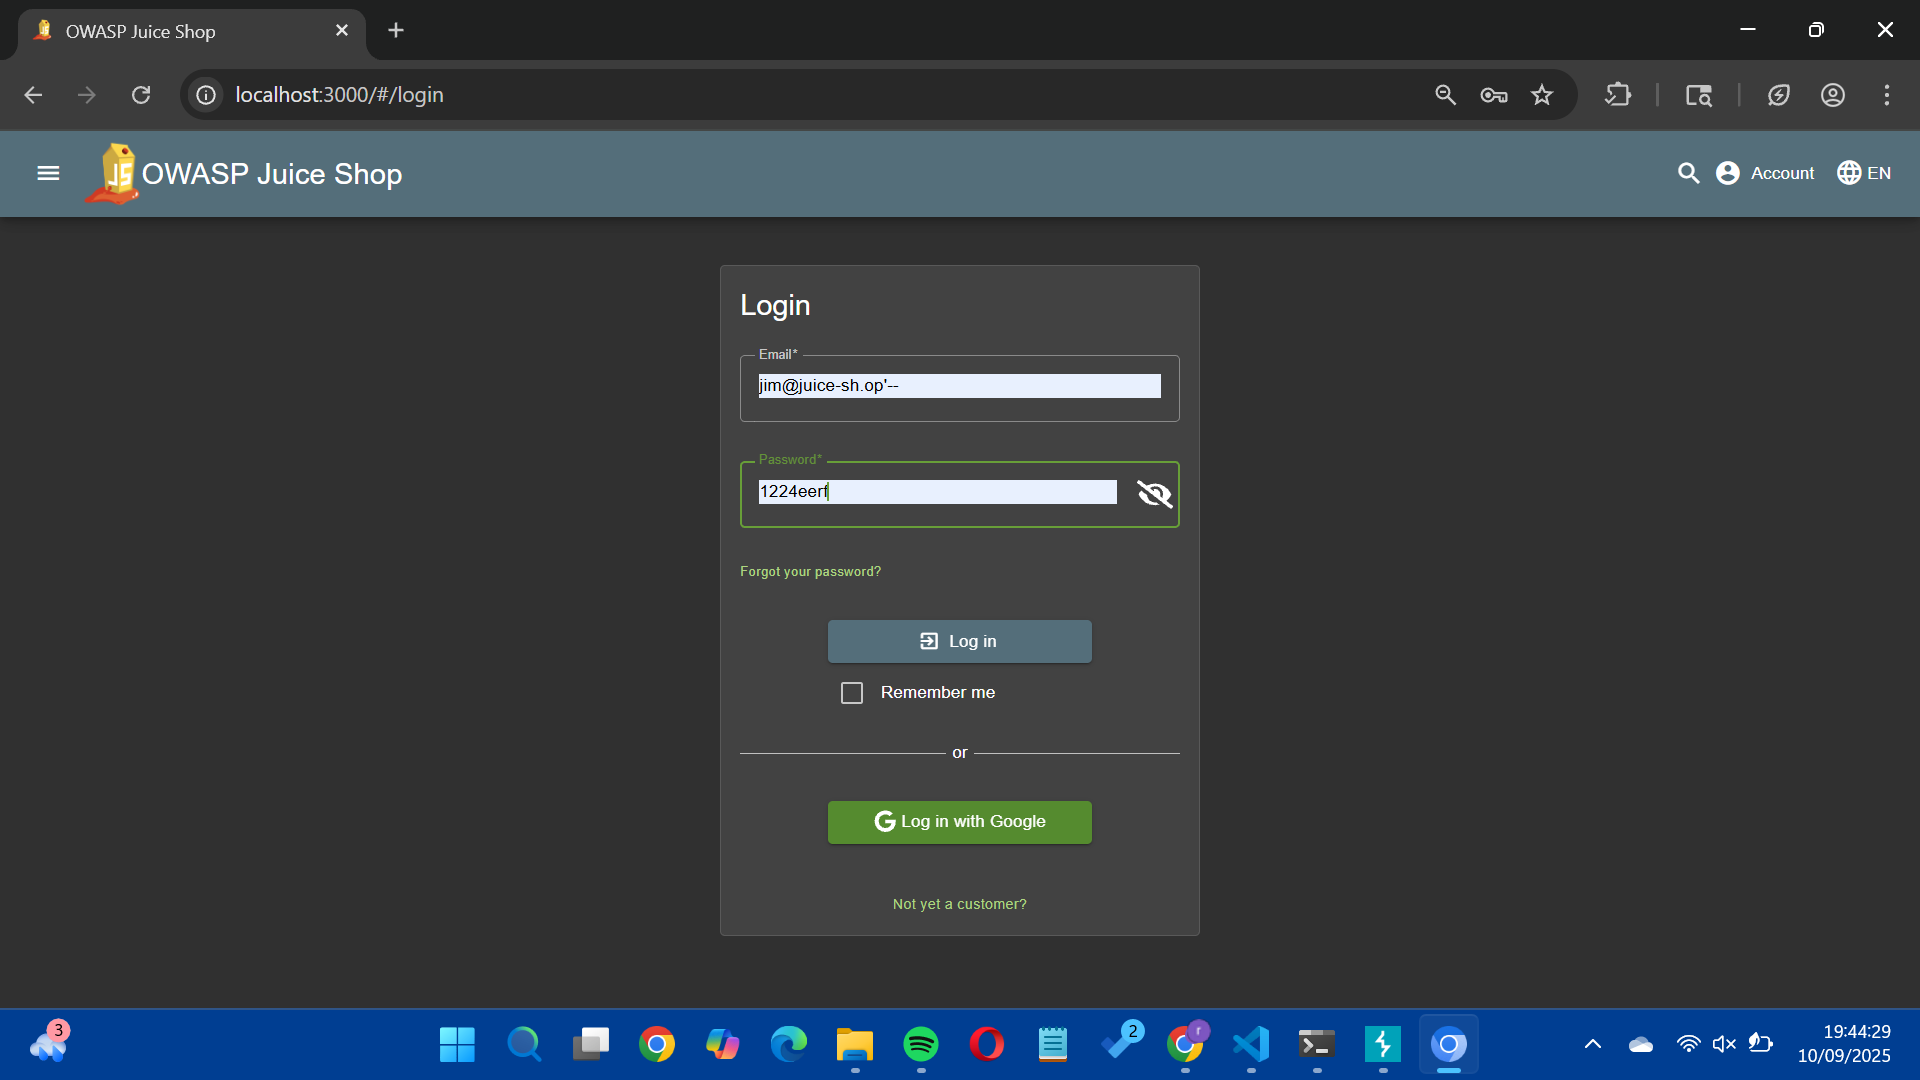
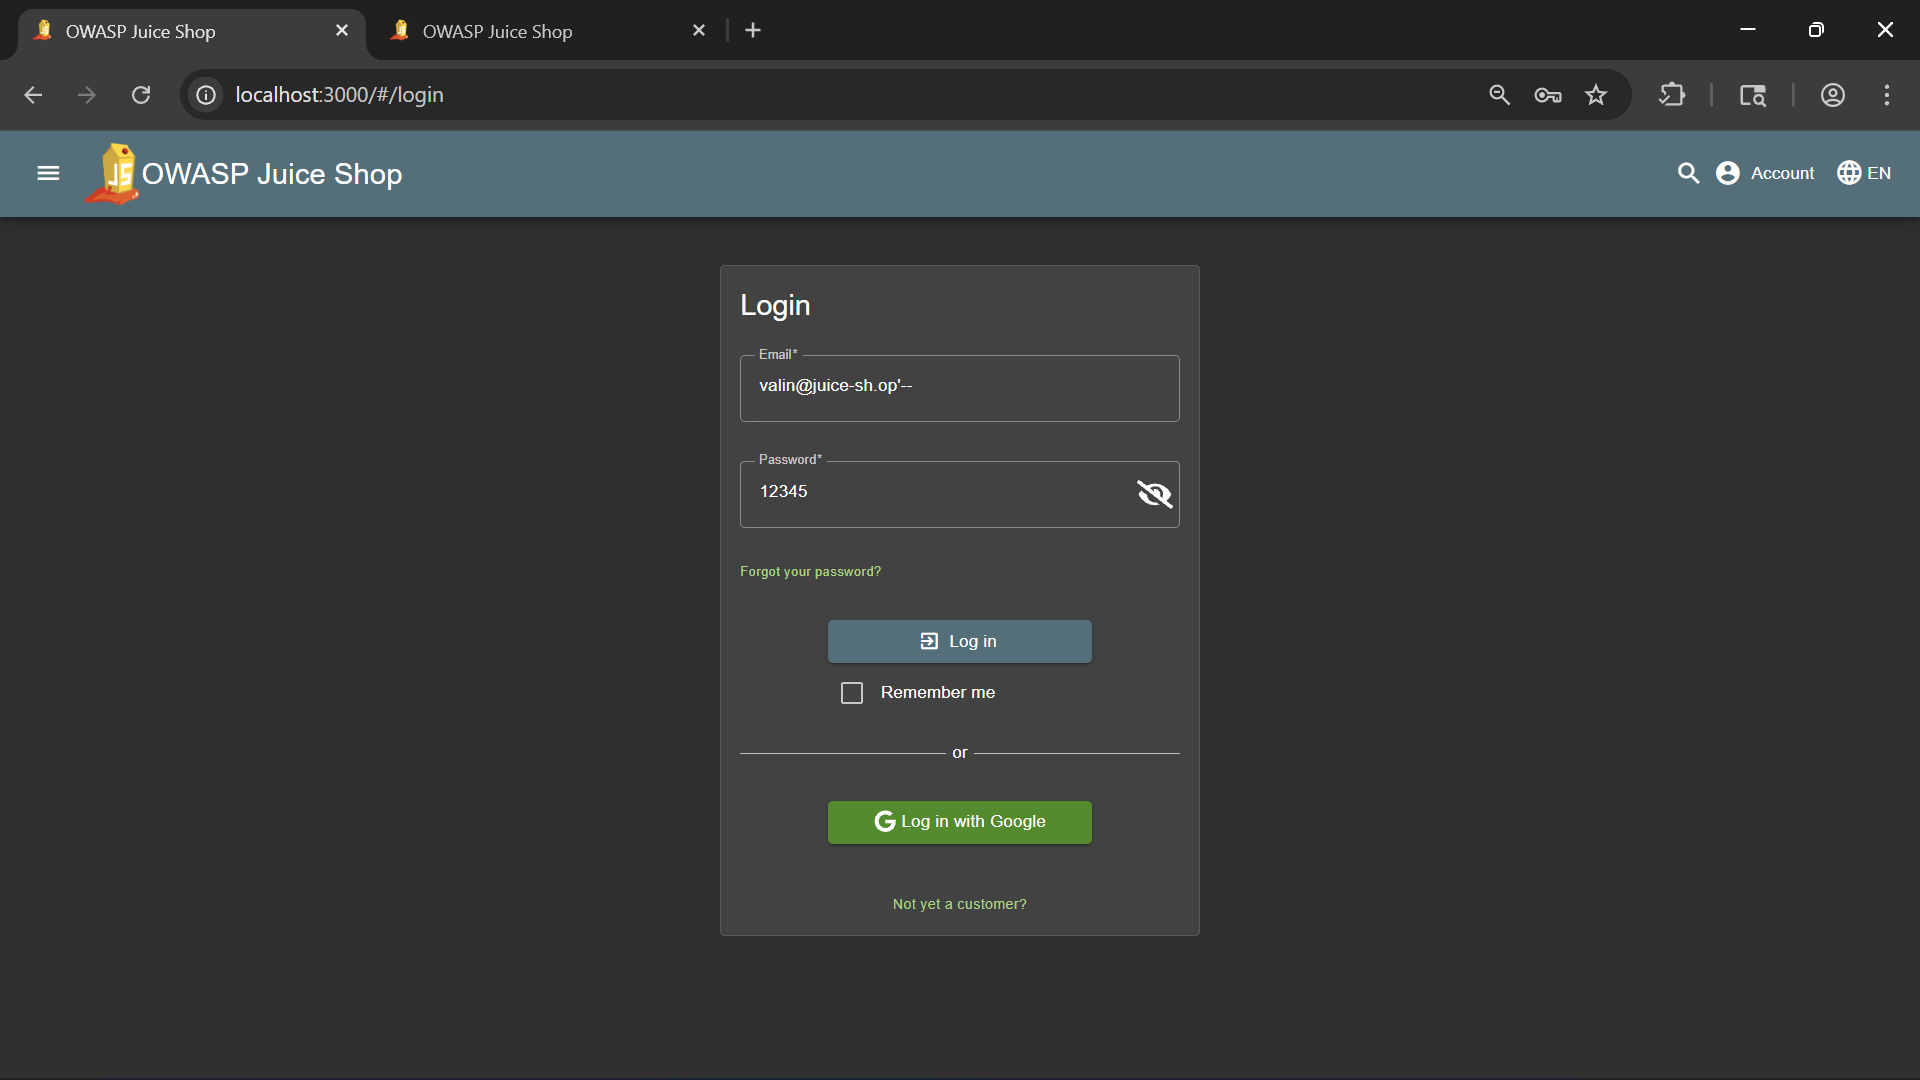
almost

diff --git a/week2-injection/kelas/Ephemeral Accountant.md b/week2-injection/kelas/Ephemeral Accountant.md
@@ -6,4 +6,13 @@ Source: https://demo.owasp-juice.shop/#/score-board?categories=Injection
 
 **Langkah-langkah:**
 
+1. Lakukan *login activity* dengan coba memasukkan email dan password terserah (lakukan ini pada *cloning chrome*). Jangan lupa untuk menghidupkan *intercept* pada burpsuite.
 ![alt text](image-15.png)
+
+2. Send to repeater log hasil login tadi
+![alt text](image-16.png)
+
+3. Ubah payload pada email dan password menjadi seperti pada gambar.
+![alt text](image-17.png)
+
+4. 
